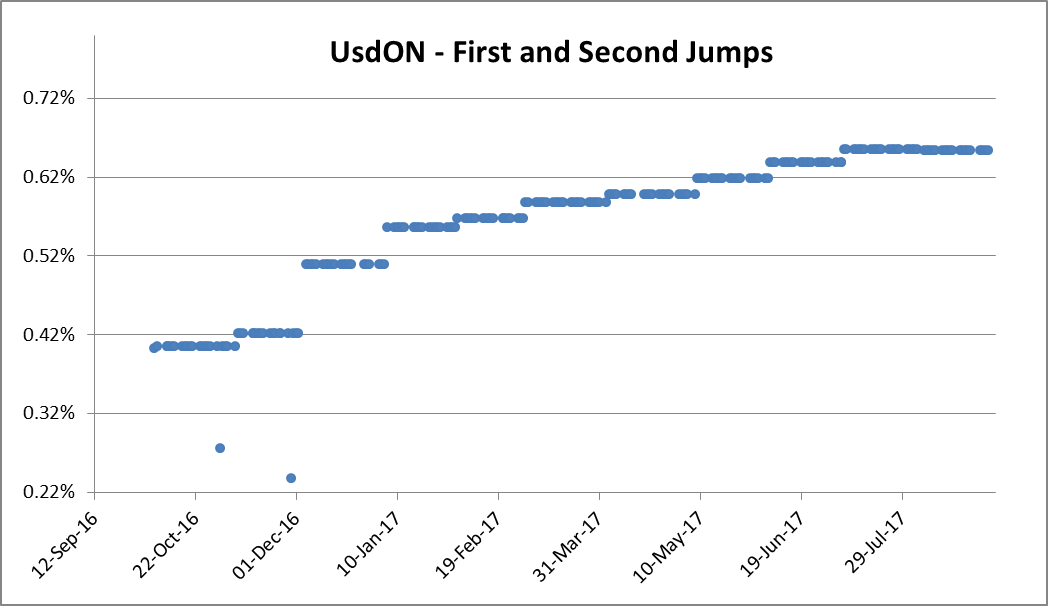
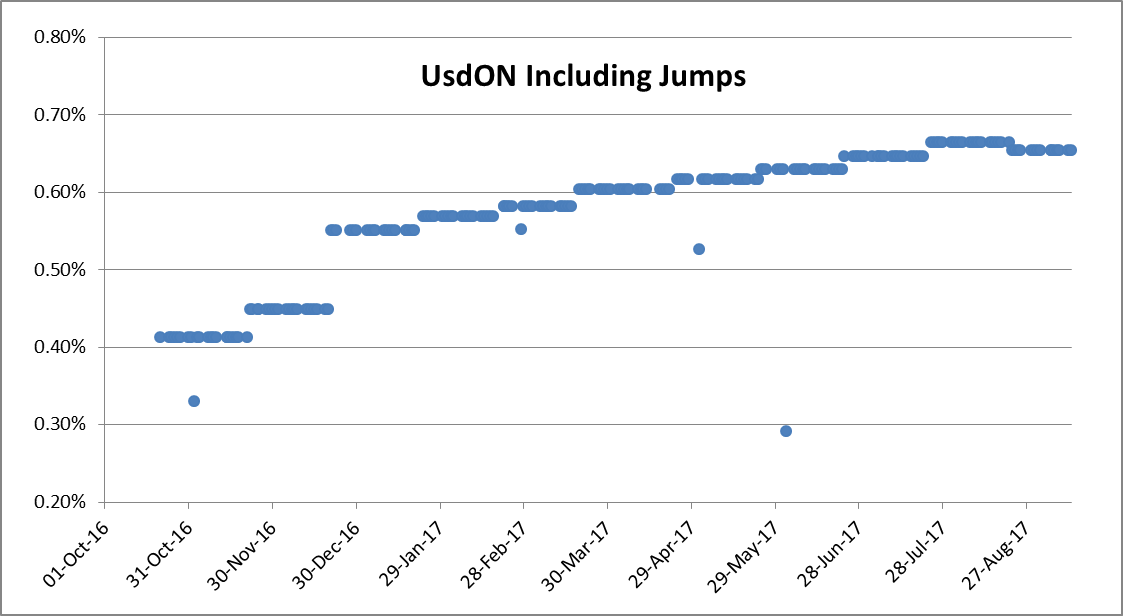
Conversion to Article almost completed

diff --git a/TESI/Thesis/toptesi-example.tex b/TESI/Thesis/toptesi-example.tex
@@ -493,11 +493,8 @@ This chapter wants to focus on overnight curve construction passing through ever
 
 \chapter{Advanced Overnight Curve Issues} \label{chap:3}
 This chapter aims to analyze and propose solutions for subtle, but relevant, problems in the overnight curve calibration. The focus will be mainly on the EUR market and, in particular, on the short-term section.
-The first issue examined is related to the inclusion of forward start instruments (as the ECB OIS) that leads to oscillation caused by overlapping instruments: to solve the problem, this work suggest to build a meta-instrument called "{\it Forward Stub}" to cover the section between the maturity of the last spot starting OIS and the settlement of the first ECB OIS which implied value can be derived assuming a no-arbitrage condition. To support this solution, a re-pricing error analysis will be presented in order to show that this approach can minimize distortion. This re-pricing analysis will be exploited also in the other issues and consists in using both curves (with and without the solution) to price a wide subset of all ICAP (see \cite{icap}) overnight indexed instruments. The purpose is to demonstrate that using the solutions proposed in this work the ICAP instruments re-pricing will be more accurate which means that the outcome curve quality as been improved. All the analysis will be performed by mean of QuantLibXL 1.8 version \footnote{QuantLib is a C++ free/open-source library for quantitative finance, for more information see \cite{quantlib}}.
+The first issue examined is related to the inclusion of forward start instruments (as the ECB OIS) that leads to oscillation caused by overlapping instruments: to solve the problem, this work suggest to build a meta-instrument called "{\it Forward Stub}" to cover the section between the maturity of the last spot starting OIS and the settlement of the first ECB OIS which implied value can be derived assuming a no-arbitrage condition. To support this solution, a re-pricing error analysis will be presented in order to show that this approach can minimize distortion. This re-pricing analysis will be exploited also in the other issues and consists in using both curves (with and without the solution) to price a wide subset of all ICAP (see \cite{icap}) overnight indexed instruments. The purpose is to demonstrate that using the solutions proposed in this work the ICAP instruments re-pricing will be more accurate which means that the outcome curve quality as been improved. All the analysis will be performed by mean of QuantLibXL 1.8 version \footnote{QuantLib is a C++ free/open-source library for quantitative finance, for more information see \cite{quantlib}}. The next issue is the empirical evidence that the forward overnight rates are generally constant between ECB monetary policy board meeting dates: because of this, a log-linear discount interpolation would be a good fit. Otherwise, flat forward rates might be reasonable up to the end of the ECB OIS strip (usually 2 years) but hardly realistic after that. This is the rationale to suggest the use of a "{\it Mixed Interpolation}" \footnote{the Mixed Interpolation is implemented in the latest QuantLib version and exported in QuantLibXL} which merges the two different interpolation regimes for the short and long term of the overnight rate curve. Finally the results of the mixed interpolation applied on the curve will be presented taking advantage of the same re-pricing analysis explained before. The final issue is how to deal with jumps, estimating their positive or negative sizes.
 
-The next issue is the empirical evidence that the forward overnight rates are generally constant between ECB monetary policy board meeting dates: because of this, a log-linear discount interpolation would be a good fit. Otherwise, flat forward rates might be reasonable up to the end of the ECB OIS strip (usually 2 years) but hardly realistic after that. This is the rationale to suggest the use of a "{\it Mixed Interpolation}" which merges the two different interpolation regimes for the short and long term of the overnight rate curve. Finally the results of the mixed interpolation applied on the curve will be presented taking advantage of the same re-pricing analysis explained before.
-
-The next issue is how to deal with jumps, estimating their positive or negative sizes. Finally the approximation necessary to include {\it Arithmetic Average OIS} \footnote{Arithmetic FF-OIS as well as the Mixed Interpolation are implemented in latest QuantLib version and exported in QuantLibXL} will be described, as relevant for the USD overnight curve bootstrap. \\
 To perform analysis a EUR market dataset as of January 29, 2016 (spot date February 2, 2016) is used which is shown in Figure \ref{fig:dataset}. Using all market instruments shown in Figure \ref{fig:dataset} for curve bootstrapping might lead to distorsive overfitting: that is why only the most liquid subset of quotes is used. While instruments included in the bootstrapping are perfectly re-priced by construction, the rest will have re-pricing errors. The validation of this work's analysis will mostly consist in the minimization of the excluded instruments re-pricing errors, while obtaining good properties for the overall curve.
 
 
@@ -512,86 +509,71 @@ To perform analysis a EUR market dataset as of January 29, 2016 (spot date Febru
     The problem occurs since the EUR overnight curve is built using both spot starting OIS and forward starting OIS. Looking to the dataset presented in previous figure it is visible that the EURON curve calibration starts from spot starting OIS up to two months maturity and then give priority to ECB dates OIS that are preferred by traders because of their liquidity but they are forward start instruments. Obviously the concatenation between spot OIS and forward ECB OIS is not perfect (expect for rare lucky days) and this leads to an overlapping section problem as the one shown in figure \ref{fig:overlapping}. 
     \begin{figure}[!h]
     \centering
-    \includegraphics[width=0.7\textwidth]{images/overlappingsol.png}
+    \includegraphics[width=0.75\textwidth]{images/overlappingsol.png}
     \caption{The overlapping solution scenario.}
     \label{fig:overlapping}
     \end{figure}
-    Since the calibration algorithm must re-price perfectly all the included market quotes, the overlapping instrument force the calibrator to re-price two times the section covered by two instruments and, in order to respect this constrain, it will introduce oscillation in the curve shape as shown in figure \ref{fig:includingcurve}.
+    Since the calibration algorithm must re-price perfectly all the included market quotes, the overlapping instrument force the calibrator to re-price two times the section covered by two instruments and, in order to respect this constrain, it will introduce oscillation in the curve shape.
     \begin{figure}[!h]
     \centering
-    \includegraphics[width=0.7\textwidth]{images/includingcurve.png}
+    \includegraphics[width=0.75\textwidth]{images/includingcurve.png}
     \caption{ON Curve including the overlapping instrument.}
     \label{fig:includingcurve}
     \end{figure}
     In fact, Figure \ref{fig:includingcurve} shows how the curve is pushed down till $-0.40\%$ and then turns back to the ECB OIS level. It is quite obvious that this strange curve's behaviour is not due to market quotes but to calibration's discrepancy resulting from the overlapping section. To solve this problem different approach can be followed:
      \begin{itemize}
-         \item{} A possibility is to include all spot starting OIS up to the first one overlapping with the first forward start ECB OIS. This solution's benefit is that the ON curve will be totally covered because the bootstrap algorithm can manage a sequence of maturities which permits a "pillar-to-pillar" standard bootstrap. Otherwise this choice implies that there will be a short time-frame presenting overlapping instruments, as visible in previous examples, which shows that OIS with 2-month maturity ({\it 4 April 2016}) overlaps the first ECB OIS with settlement ({\it 16 March 2016}). The overlap section cause oscillations in the curve's shape and, as a consequence, an impact on not included instruments repricing errors. This errors are also deeply connected to the first section curve's shape; in fact this solution may leads to negligible repricing errors only if spot starting OIS and first ECB OIS presents close values (which means that the first curve section tends to be flat). Otherwise, empirical evidence shows that, sometimes, market idiosyncrasies can affect first section curve's shape making it highly downward/upward sloping (as the Figure \ref{fig:overlapping} suggest). In this particular cases also the overlapping solution fails leading to relevant errors.
-        \item{} Another possible solution may be to exclude from the bootstrap the overlapping OIS (the 2-month maturity one in reference to the preceding example). The benefit of this choice is to avoid overlapping instruments but implies that there will be a not covered curve section, as visible in Figure \ref{fig:exclude}, in which the bootstrap algorithm does not have any information related to the curve shape. The impact of this solution on repricing errors is shown in Figure \ref{fig:excludingcurve}; it leads to high repricing errors and it is not advisable to use it.
-        \begin{figure}[!h]
-        \centering
-        \includegraphics[width=0.7\textwidth]{images/excludingsol.png}
-        \caption{The excluding solution scenario.}
-        \label{fig:exclude}
-        \end{figure}
-         Looking to Figure \ref{fig:excludingcurve} is visible that the calibrator extrapolates backward from ECB Dated market quote the non-covered part of the curve leading to high distortions especially when preceding instrument and ECB OIS quotes are distant. 
-        \begin{figure}[!h]
-        \centering
-        \includegraphics[width=0.7\textwidth]{images/excludingcurve.png}
-        \caption{ON Curve excluding overlapping instrument.}
-        \label{fig:excludingcurve}
-        \end{figure}
+         \item{} A possible solution could be to include all spot starting OIS up to the one which overlaps the first forward start ECB OIS. This solution's benefit is that the ON curve will be totally covered because the bootstrap algorithm can manage a sequence of maturities which permits a "pillar-to-pillar" standard bootstrap. Otherwise this choice implies that there will be a short time-frame presenting overlapping instruments; in fact, Figure \ref{fig:overlapping} shows that OIS with 2-month maturity ({\it 4 April 2016}) overlaps the first ECB OIS with settlement ({\it 16 March 2016}). The overlap section cause oscillations in the curve's shape and, as a consequence, an impact on not included instruments repricing errors. This errors are also deeply connected to the first curve section shape; in fact this solution may leads to negligible repricing errors only if spot starting OIS and first ECB OIS presents close values (which means that the first curve section tends to be flat). Otherwise, empirical evidence shows that, sometimes, market idiosyncrasies can affect this short-term section making it highly downward/upward sloping. In this particular cases also the overlapping solution fails leading to relevant errors.
+        \item{} The preceding approach can not be satisfactory and seems that there is no solution taking advantage of the only market instruments. The suggestion is to create a forward "Meta-Instrument", from now called {\it Forward Stub}, which cover the missing section and which value can be derived from available market quotes. The aim of the Forward Stub is to cover the section between the last not-overlapping spot starting OIS maturity and the first ECB OIS settlement date in order to link perfectly the spot instruments to forward instruments as shown in Figure \ref{fig:stub}.
         \end{itemize}
-        This solutions are not satisfactory and seems that there is no solution taking advantage of the only market instruments. This work's suggestion is to create a forward "Meta-Instrument", from now called {\it Forward Stub}, which cover the missing section and which value can be derived from available market quotes.\\
-        \\
-        Let's suppose now to be in the situation described in Figure \ref{fig:exclude} in which there is a not covered curve's section. The Stub quote represents the forward rate which starts from the last not-overlapping instrument's (the OIS1M) maturity date and ends in the first ECB dated settlement date.
         \begin{figure}[!h]
         \centering
         \includegraphics[width=0.8\textwidth]{images/stubsol.png}
         \caption{The Stub solution scenario.}
         \label{fig:stub}
         \end{figure}
-        The Stub forward rate is implied in the market and can be derived assuming a no-arbitrage condition and assuming that forward rates from $t\ped{2}$ and $t\ped{4}$ are constant, where:\\
+        Looking to the dataset used, the time values are:\\
         \\
-        $t\ped{1} = \mbox{Last non-overlapping instrument's maturity}$ \\
-        $t\ped{2} = \mbox{First ECB dated OIS settlement date}$ \\
-        $t\ped{3} = \mbox{Overlapping instrument's maturity date}$ \\  
-        $t\ped{4} = \mbox{First ECB dated OIS maturity date}$ \\
-        $t\ped{5} = \mbox{Second ECB dated OIS maturity date}$ \\
-        $f(s) = \mbox{Instantaneous forward rate}$\\
+        $t\ped{0} = \mbox{February 2, 2016 - Settlement date}$\\
+        $t\ped{1} = \mbox{March 2, 2016 - OIS1M maturity}$ \\
+        $t\ped{2} = \mbox{March 16, 2016 - First ECB OIS settlement date}$ \\
+        $t\ped{3} = \mbox{April 4, 2016 - OIS2M maturity date}$ \\  
+        $t\ped{4} = \mbox{April 27, 2016 - First ECB OIS maturity date}$ \\
+        $t\ped{5} = \mbox{June 8, 2016 - Second ECB OIS maturity date}$ \\
         \\
-        In our case:
+        From available market quotes, the following information are well known:
+        \begin{description}
+           \item{-} The average forward rate for $(t\ped{0},t\ped{1})$ is given by OIS1M market quote and it is equal to: $-0,2380\%$;
+           \item{-} The average forward rate for $(t\ped{0},t\ped{3})$ is given by OIS2M market quote and it is equal to: $-0,2730\%$;
+           \item{-} The average forward rate for $(t\ped{2},t\ped{4})$ is given by the $1^{st}$ ECB OIS market quote and it is equal to: $-0,3530\%$;
+           \item{-} The average forward rate for $(t\ped{4},t\ped{5})$ is given by the $2^{nd}$ EcB OIS market quote and it is equal to: $-0,3650\%$.
+        \end{description}
+        The Stub forward quote is the rate which covers the time span $(t\ped{1},t\ped{2})$. This rate is implied in the market and must be derived assuming a no-arbitrage condition which impose the OIS2M to be perfectly repriced. Otherwise, in order to obtain the unknown Stub value, it is necessary to have information about forwards in $(t\ped{2},t\ped{3})$ section which can not be derived directly from market instruments. Since the average forward rate for $(t\ped{2},t\ped{4})$ is known and equal to the $1^{st}$ ECB OIS market quote it is possible to derive the $(t\ped{2},t\ped{3})$ value assuming that forward rates are constant in that section which means that: 
+        $$\int_{t\ped{2}}^{t\ped{3}} f(s)ds = \int_{t\ped{2}}^{t\ped{4}} f(s)ds$$
+        Where $f(s)$ are the {\it Instantaneous Forward Rates}.\\
         \\
-        $t\ped{1} = \mbox{March 2, 2016}$ \\
-        $t\ped{2} = \mbox{March 16, 2016}$ \\
-        $t\ped{3} = \mbox{April 4, 2016}$ \\  
-        $t\ped{4} = \mbox{April 27, 2016}$ \\
-        $t\ped{5} = \mbox{June 8, 2016}$ \\
-        \\
-        Assuming constant forward rates between $t\ped{2}$ and $t\ped{4}$ is consistent with the empirical market evidence which shows an almost flat behaviour between ECB monetary policy dates. In order to not introduce arbitrages, it is necessary to obtain the Stub quote imposing that the excluded instrument (OIS2M in the example) must be repriced perfectly. In order to replicate the OIS2M value the following relationship must hold:
-        
+        Assuming constant forward rates between $t\ped{2}$ and $t\ped{4}$ is consistent with the empirical market evidence which shows an almost flat behaviour between ECB monetary policy dates. All the information necessary to derived the Forward Stub implied market quotes are now available and it is possible to exploit the no-arbitrage condition to set:
         $$\int_{0}^{t\ped{1}} f(s)ds \cdot \int_{t\ped{1}}^{t\ped{2}} f(s)ds \cdot \int_{t\ped{2}}^{t\ped{3}} f(s)ds = \int_{0}^{t\ped{3}} f(s)ds$$
-        As visible, no-arbitrage condition implies that investing in OIS1M ({\it first segment}), Forward Stub ({\it second segment}) and in ECB OIS till the OIS2M maturity ({\it last segment}) must be equal to investing in OIS2M ({\it dotted segment}). In this situation, the Stub implied value can be calculated as:\\
-        
+        As visible, no-arbitrage condition implies that investing in OIS1M ({\it first segment}), Forward Stub ({\it second segment}) and in ECB OIS till the OIS2M maturity ({\it last segment}) must be equal to investing in OIS2M ({\it dotted segment}).
+        Solving the equation for the Stub unknown value:
         $$ \int_{t\ped{1}}^{t\ped{2}} f(s)ds = \frac{\int_{0}^{t\ped{3}} f(s)ds}{\int_{0}^{t\ped{1}} f(s)ds \cdot \int_{t\ped{2}}^{t\ped{3}} f(s)ds}$$\\
-        Assuming continuous compounding:\\
-        
-        $$ \mbox{{\it Stub}} = \frac{\left[\frac{e^{F(0,t\ped{3}) \cdot \tau(0,t\ped{3})}}{e^{F(0,t\ped{1}) \cdot \tau(0,t\ped{1})} \cdot e^{F(t\ped{2},t\ped{3}) \cdot \tau(t\ped{2},t\ped{3})}}-1\right]}{\tau(t\ped{1},t\ped{2})}$$\\
-        Calibrating the overnight curve using this forward Stub improve consistently the curve quality avoiding unwanted distortion and oscillation as it will be shown later taking advantage of the repricing error analysis. Otherwise, this solution can be implemented only if the bootstrap algorithm uses a flat interpolation for the short-term section of the curve. Interpolating, for example, log-linearly the overnight curve becomes piecewise constant and this assumption permits to derive the $\int_{t\ped{2}}^{t\ped{3}} f(s)ds$ value that must be equal to ECB OIS market quote. It is also important to underlying that the Stub algorithm produces good results also in limit cases as, for example, when $\tau(t\ped{1},t\ped{2}) \longrightarrow \frac{1}{365}$ that represents the particular case in which the Stub quote duration is just 1 day. 
-        
-        Furthermore, during a year, there surely happen a particular scenario in which, since the first ECB OIS fixing becomes earlier and earlier, the discarded spot instruments is the spot week (SW) OIS. This case implies that the so called "Forward Stub" it is not forward start anymore because it becomes a spot instrument which covers the year fraction: $\tau(0,t\ped{1})$ (where $t\ped{1}$ is the first ECB OIS fixing date). In this case, the "spot stub" implied value is:
+        Assuming continuous compounding:
+        $$ \mbox{{\it Stub}} = \frac{\left[\frac{e^{F(0,t\ped{3}) \cdot \tau(0,t\ped{3})}}{e^{F(0,t\ped{1}) \cdot \tau(0,t\ped{1})} \cdot e^{F(t\ped{2},t\ped{3}) \cdot \tau(t\ped{2},t\ped{3})}}-1\right]}{\tau(t\ped{1},t\ped{2})}$$
+        Including the Forward Stub in the overnight curve calibration improve consistently the output quality avoiding unwanted distortion and oscillation as it will be shown later taking advantage of the repricing error analysis. Otherwise, this solution can be implemented only if the bootstrap algorithm uses a flat interpolation for the short-term section of the curve. This condition is necessary to match the assumption that forward rates in $(t\ped{2},t\ped{4})$ are constant. 
+        It is also important to underlying that the Stub algorithm produces good results also in limit cases as, for example, when $\tau(t\ped{1},t\ped{2}) \longrightarrow \frac{1}{365}$ that represents the particular case in which the Stub quote duration is just 1 day. 
+        Furthermore, during a year, there surely happen a particular scenario in which, since the first ECB OIS fixing becomes earlier and earlier, the discarded spot instruments is the spot week (SW) OIS. This case implies that the so called "Forward Stub" it is not forward start anymore because it becomes a spot instrument which covers the year fraction: $\tau(0,t\ped{1})$ (where $t\ped{1}$ is the first ECB OIS fixing date). In this case, the "Spot Stub" implied value is:
         $$ \mbox{{\it Stub}} = \frac{\left[\frac{e^{F(0,t\ped{2}) \cdot \tau(0,t\ped{2})}}{e^{F(t\ped{1},t\ped{2}) \cdot \tau(t\ped{1},t\ped{2})}}-1\right]}{\tau(t\ped{0},t\ped{1})}$$
-        The impact on the curve's shape of the forward stub solution in presented in the following figure. It is visible that this approach avoid strange behaviour and 
+        The impact of the Forward Stub inclusion in presented in Figure \ref{fig:stubcurve}. It is visible that this approach avoid strange behaviour and 
         is the one which minimize all the out-of-curve instruments repricing errors ensuring also the perfect reprice of the overlapping instruments excluded.
         \begin{figure}[!h]
         \centering
-        \includegraphics[width=0.7\textwidth]{images/stubcurve.png}
+        \includegraphics[width=0.75\textwidth]{images/stubcurve.png}
         \caption{ON Curve including forward Stub.}
         \label{fig:stubcurve}
         \end{figure}
-        Finally, the Figure \ref{fig:errors} shows the repricing error analysis that validates the forward stub solution as the one able to minimize errors and improve the curve quality. As visible the excluding solution is the worst one and it is also unable to reprice correctly the excluded instruments. The other solutions instead are able to reprice perfectly the 2-months maturity OIS which is included in the overlapping solution but not in the Stub one. The Root Mean Square Error (RMSE) and the Max Error (ME) shows that the best approach to solve the problem is by means of the Forward Stub that presents the lower values of RMSE and ME.
+        Finally, the Figure \ref{fig:errors} shows the repricing error analysis that validates the forward stub solution as the one able to minimize errors and to improve the curve's quality. The other solution instead is able to reprice perfectly the 2-months maturity OIS because it is an included instrument but it is not able to minimize the out-of-curve quotes which show relevant repricing errors. Also the lower values of Root Mean Square Error (RMSE) and Max Error (ME) validate the Forward Stub solution as the one that ensures errors minimization.
         \begin{figure}[!h]
         \centering
-        \includegraphics[width=0.8\textwidth]{images/errors.png}
+        \includegraphics[width=0.75\textwidth]{images/errors.png}
         \caption{Repricing errors summary for all possible solutions.}
         \label{fig:errors}
         \end{figure}
@@ -614,13 +596,13 @@ To perform analysis a EUR market dataset as of January 29, 2016 (spot date Febru
         \begin{figure}[!h]
         \centering
         \includegraphics[width=0.82\textwidth]{images/repricingmixed.png}
-        \caption{Repricing error analysis using a linear interpolation for the whole curve ($1^{st}$ column), a monotonic cubic spline for the whole curve ($2^{nd}$ column), a share range mixed interpolation ($3^{rd}$ column) and a split range mixed interpolation ($4^{th}$ column).}
+        \caption{Repricing error analysis using a log-linear interpolation + Stub for the whole curve ($1^{st}$ column), a monotone cubic spline + Stub for the whole curve ($2^{nd}$ column), a share range mixed interpolation ($3^{rd}$ column) and a split range mixed interpolation ($4^{th}$ column).}
         \label{fig:repricingmixed}
         \end{figure}
-        Analyzing the repricing table above it is possible to draw some conclusions. First of all it is visible that the only approach that leads to higher errors in the short section is the monotone cubic one which fails to reprice correctly the 2-months maturity OIS (which is the instrument excluded in favor of the  Forward Stub). As already explained in the previous section the Stub implied quote is derived imposing a no-arbitrage condition and assuming a flat interpolation. Since the other approaches are interpolated linearly they re-price that instrument perfectly but this is not the Cubic Spline case that, in fact, leads to a relevant error of 0.97 basis points. Since a log-linear interpolation for the whole curve leads to big flat section on the mid-long term and since the monotone cubic one avoids the introduction of the forward stub, this work suggest to use the mixed interpolation because it links the benefits of a flat interpolator in the short term and the benefits of the smooth interpolator on the mid-long term.
+        Analyzing the repricing table it is possible to draw some conclusions. The comparison is made between a log-linear interpolated curve which includes the Forward Stub; a monotone cubic spline curve which includes an "{\it Ad Hoc}" Stub obtained through a root finding approach and the mixed interpolated curve following both the possibles methods. Obviously, it is visible that the mixed approaches and the log-linear one lead to the same errors since the mixed technique uses a log-linear interpolation up to the switch pillar (which is set on the OIS18M pillar). The monotone cubic curve, instead, even if bootstrapped including the Stub, produces higher errors for each out-of-curve instrument. The conclusion is that the short term section of the overnight curve is fitted better by a piecewise flat interpolation rather than a cubic one. Otherwise, on the mid/long term, assuming constant forwards can not be consistent anymore. That's why this work suggests to mix the log-linear interpolation up to the end of the ECB OIS strip and then switch to a monotone cubic spline interpolator which produces smooth forward rates for the mid/long term section. Finally, the Root Mean Square Error (RMSE) and Max Error (ME) validates the conclusions showing higher values related to the monotone cubic approach on the short-term section.
         
     \section{Jump estimation} \label{section:3.3}
-    As already discussed in previous chapters, the key point in a state-of-the-art curve bootstrapping is to obtain smooth forward rates. In order to do that, for even the best interpolation scheme to be effective, any market jump must be removed before the curve calibration and than added back at the end of the process. To perform the analysis for the EUR market case the same dataset has been used while for the USD case another dataset as of October 5, 2016 (spot date October 7, 2016), has been used which is shown in the following figure.
+    As already discussed in previous chapters, the key point in a state-of-the-art curve bootstrapping is to obtain smooth forward rates. In order to do that, for even the best interpolation scheme to be effective, any market jump must be removed before the curve calibration and than added back at the end of the process. To perform the analysis for the EUR market case the same dataset has been used while for the USD case another dataset as of October 5, 2016 (spot date October 7, 2016), has been used which is shown in the Figure \ref{fig:usddataset}.
     
     \begin{figure}[!h]
     \centering
@@ -629,26 +611,24 @@ To perform analysis a EUR market dataset as of January 29, 2016 (spot date Febru
     \label{fig:usddataset}
     \end{figure}
     
-       \subsection{The EUR market case: Positive Jumps} \label{subsection:3.3.1}
-       A rate jump can be seen, in a financial point of view, as a higher index fixing due to increased search of liquidity of market participants caused by end-of-month or end-of-year capital requirements. This definition is good for the EUR case in which market evidence shows positive jumps as visible in the Figure \ref{fig:turnofyear}.
-       \begin{figure}[!h]
-       \centering
-       \includegraphics[width=0.7\textwidth]{images/turnofyear.png}
-       \caption{December 2014 turn of year effect shown on Bloomberg terminal.}
-       \label{fig:turnofyear}
-       \end{figure}
-However, this definition is not consistent for the U.S. case in which market evidence shows negative jumps and so American market participants tend to have a decreasing necessity of liquidity every end-of-month. The most relevant rate jump is the so called {\it Turn-Of-Year} (TOY) effect observable in the last working day in market quotations spanning across the end of the year. Other Euribor indexes with longer tenor display smaller jumps when their maturity crosses the same border; in fact jumps amplitude decrease as the rate tenor increase. 
-
-To estimate jumps sizes Ametrano and Mazzocchi (\cite{amemaz}) propose a four-step approach similar to the one used by Burghardt (\cite{burgh}):
-       \begin{enumerate}
+    A rate jump can be seen, in a financial point of view, as a higher index fixing due to increased search of liquidity of market participants caused by end-of-month or end-of-year capital requirements. This definition is good for the EUR case in which market evidence shows positive jumps as visible in the Figure \ref{fig:turnofyear}.
+    \begin{figure}[!h]
+    \centering
+    \includegraphics[width=0.7\textwidth]{images/turnofyear.png}
+    \caption{December 2014 turn of year effect shown on Bloomberg terminal.}
+    \label{fig:turnofyear}
+    \end{figure}
+    However, this definition is not consistent for the U.S. case in which market evidence shows negative jumps; so American market participants tend to have a decreasing necessity of liquidity every end-of-month. The most relevant rate jump is the so called {\it Turn-Of-Year} (TOY) effect observable in the last working day in market quotations spanning across the end of the year. Other Euribor indexes with longer tenor display smaller jumps when their maturity crosses the same border; in fact jumps amplitude decrease as the rate tenor increase. \\
+    To estimate jumps sizes Ametrano and Mazzocchi (\cite{amemaz}) propose a four-step approach similar to the one used by Burghardt (\cite{burgh}):
+    \begin{enumerate}
            \item The first step is to built an overnight curve calibrating by means of a linear/flat interpolation and including all liquid market quotes available (high pillar density is strictly recommended); 
            \item After that it is possible to estimate the first jump assuming that a segment out of line with preceding and following segments can be put back in line dumping the difference into the jump:
            $$\left[F^{Original}(t\ped{1},t\ped{2}) - F^{Interp}(t\ped{1},t\ped{2})\right] \cdot \tau(t\ped{1},t\ped{2}) = J^{Size}*\tau^{J}$$
            \item Ones the first jumps as been estimated it is possibile to remove it from the curve;
            \item Iterate ad libitum 2 and 3 on the next jump date.
-        \end{enumerate}
-        Eonia fixings time series shows that it occurs a jump at least at every end of month. To obtain a smooth forwarding curve, this particular behaviour must be addressed in the calibration taking care to clear the entire curve from jumps before starting the bootstrap.
-        Figures \ref{fig:firstjumpeur1}, \ref{fig:firstjumpeur2} and \ref{fig:firstjumpeur3} shows the impact of first and second jump inclusion in the curves shape. As visible, the short term section of the curve is changed due the fact that the first jumps has been accounted. To preserve the value of the instantaneous forward rate integral in that section, the calibration algorithm pushes down all the segment changing the curve shape.
+    \end{enumerate}
+    Eonia fixings time series shows that it occurs a jump at least at every end of month. To obtain a smooth forwarding curve, this particular behaviour must be addressed in the calibration taking care to clear the entire curve from jumps before starting the bootstrap.
+    Figures \ref{fig:firstjumpeur1} and \ref{fig:firstjumpeur3} shows the impact of first and second jump inclusion in the curves shape. As visible, the short term section of the curve is changed due the fact that jumps have been accounted. To preserve the value of the instantaneous forward rate integral in that section, the calibration algorithm pushes down all the segment changing the curve shape.
         \begin{figure}[!h]
         \centering
         \includegraphics[width=0.8\textwidth]{images/firstjumpeur1.png}
@@ -662,40 +642,38 @@ To estimate jumps sizes Ametrano and Mazzocchi (\cite{amemaz}) propose a four-st
         \caption{The same curve in Figure \ref{fig:firstjumpeur1} including first and second jump.}
         \label{fig:firstjumpeur3}
         \end{figure}
-        As visible, the short term section of the curve is changed due the fact that the first jumps has been accounted. To preserve the value of the instantaneous forward rate integral in that section, the calibration algorithm pushes down all the segment changing the curve shape.
-        
-        \subsection{The USD market case: Negative Jumps} \label{subsection:3.3.2}
-        Moving to the USD market, the situation looks inverted. In fact, as visible in Figure \ref{fig:fftimeseries}, the Fed Funds fixings shows negative jumps every end-of-month and with a particular deep size. In a financial point of view this is due to the excess of liquidity that market participants hold and want to sell at the end of each month.
+    Moving to the USD market case, the situation looks inverted. In fact, as visible in Figure \ref{fig:fftimeseries}, the Fed Funds fixings shows negative jumps every end-of-month and with a particular deep size. In a financial point of view this is due to the excess of liquidity that market participants hold and want to sell at the end of each month.
         \begin{figure}[!h]
         \centering
         \includegraphics[width=0.75\textwidth]{images/fftimeseries.png}
         \caption{Last 2 years Fed Funds fixings time series.}
         \label{fig:fftimeseries}
         \end{figure}
-This behaviour tends to be constant during time, in fact, in the last two years, the Fed Funds time series shows negative jumps every end-of-month with no exceptions. To estimate this kind of jumps, however, the Ametrano-Mazzocchi approach for the EUR market case must be reviewed so that it can account negative sizes. In particular the formula at point 2 becomes:
+    This behaviour tends to be constant during time, in fact, in the last two years, the Fed Funds time series shows negative jumps every end-of-month with no exceptions. To estimate this kind of jumps, however, the Ametrano-Mazzocchi approach for the EUR market case must be reviewed so that it can account negative sizes. In particular the formula at point 2 becomes:
         
         $$\left[F^{Interp}(t\ped{1},t\ped{2}) - F^{Original}(t\ped{1},t\ped{2})\right] \cdot \tau(t\ped{1},t\ped{2}) = J^{Size}*\tau^{J}$$\\
         Applying the same procedure but using the reviewed formula it is now possible to make an estimation of the USD jumps and account them in the USD overnight curve as the next figures show.
         \begin{figure}[!h]
         \centering
         \includegraphics[width=0.75\textwidth]{images/firstjumpusd1.png}
-        \caption{First two year section of the USD overnight curve without jumps.}
+        \caption{First USD overnight curve section without jumps.}
         \label{fig:firstjumpusd1}
         \end{figure}
         \begin{figure}[!h]
         \centering
         \includegraphics[width=0.75\textwidth]{images/firstjumpusd3.png}
-        \caption{The same curve in Figure \ref{fig:firstjumpusd1} including first and second jumps.}
+        \caption{The same curve in Figure \ref{fig:firstjumpusd1} including all estimated jumps.}
         \label{fig:firstjumpusd3}
         \end{figure}
-It is clear that, since the piecewise flat steps of the curve are given by market quotes which are the integral of instantaneous forward rates between an interval $(t\ped{1},t\ped{2})$, if this integral must account a deep below level point, the residual part is shifted up in order to maintain the integral value equal.\\
+It is clear that, since the piecewise flat steps of the curve are given by market quotes which are the integral of instantaneous forward rates between an interval $(t\ped{1},t\ped{2})$, if this integral must account a deep below level point, the residual part is shifted up in order to maintain the integral value equal.
+
 \newpage       
 \section{Conclusions}\label{section:3.4}  
-This chapter faces 3 advanced overnight curve problems and presents some possible solutions. First of all, this work proposes to build a forward Stub in order to fix the overlapping instruments problem caused by the not perfect concatenation between spot starting OIS and ECB dated OIS. The results of this solution have been presented taking advantage of a repricing errors analysis which shows that excluding the overlapping instrument and including the forward Stub improve the curve's quality minimizing all the out-of-curve instruments errors.
+This chapter faces 3 advanced overnight curve problems and presents some possible solutions. First of all, this work proposes to build a forward Stub in order to fix the overlapping instruments problem caused by the not perfect concatenation between spot starting OIS and ECB dated OIS. The results have been presented taking advantage of a repricing errors analysis which shows that excluding the overlapping instrument and including the forward Stub improve the curve's quality minimizing all the out-of-curve instruments errors.
 
-Moving ahead to the next point, the mixed interpolation has been presented as a particular interpolator which merge two different techniques. In order to describe the overnight curve behaviour in the most accurate way, this work proposes to mix a linear interpolation on log-discounts for the short term curve's section with a monotone cubic natural spline for the mid-long term section. Using the same repricing approach proposed in the previous issue it has been shown that this configuration leads to a very good curve's fit which is better than the one obtained interpolating the whole curve with a log-linear interpolation or a monotone cubic natural spline interpolation. 
+The mixed interpolation has been presented as a particular interpolator which merge two different techniques. In order to describe the overnight curve behaviour in the most accurate way, this work proposes to mix a linear interpolation on log-discounts for the short term curve's section with a monotone cubic spline for the mid-long term section. Using the same repricing approach proposed in the previous issue it has been shown that this configuration leads to a very good curve's fit which is better than the one obtained interpolating the whole curve with a log-linear interpolation or a monotone cubic spline interpolation. 
 
-Finally the jumps problem for the EUR market and the USD market has been shown. Following the best practice proposed by Ametrano-Mazzocchi (\cite{amemaz}) based on the  Burghardt approach (\cite{burgh}), this work proposed a simple way to estimate negative jumps as the ones visible in the Fed Fund time series.  
+Finally the jumps problem for the EUR market and the USD market has been shown. Following the best practice proposed by Ametrano-Mazzocchi (\cite{amemaz}) based on the Burghardt approach (\cite{burgh}), this work proposed a simple way to estimate negative jumps as the ones visible in the Fed Fund time series and shows how the shape is changed after the jumps inclusion.  
 
 %%%CONCLUSION%%%
 
